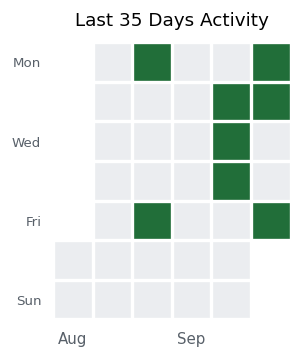
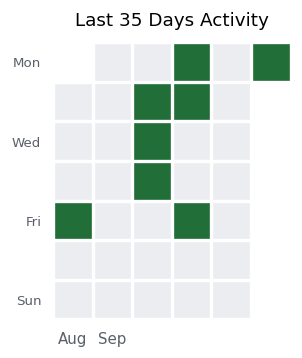
Lab Entry: 2026-09-28

diff --git a/README.md b/README.md
@@ -1,10 +1,10 @@
-# 🏃 平均週 2.4 回でつーがく中！
+# 🏃 平均週 2.3 回でつーがく中！
 <p align="center">
   <img src="./monthly_report.png" alt="Attendance Calendar">
 </p>
 
 ___
-*最終更新: 2026-09-18*
+*最終更新: 2026-09-28*
 
 ## セットアップ
 
